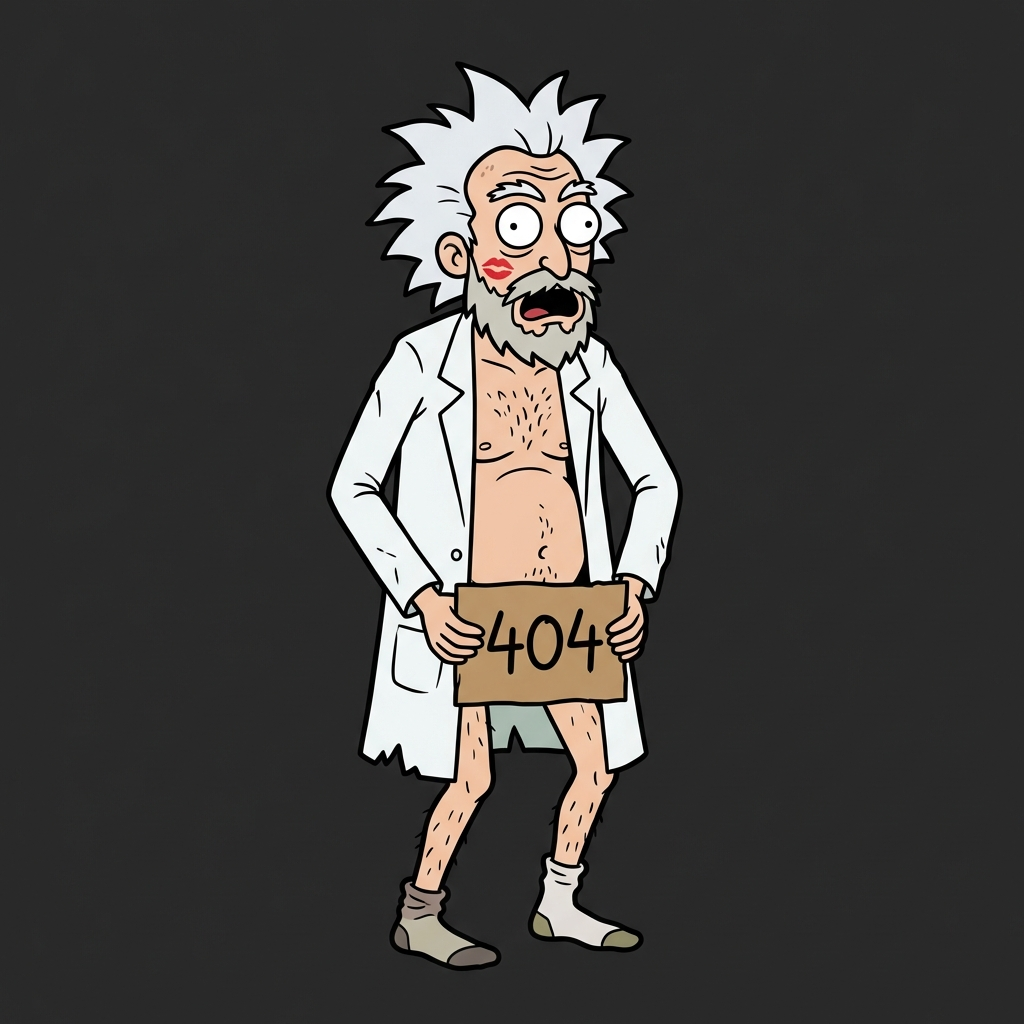
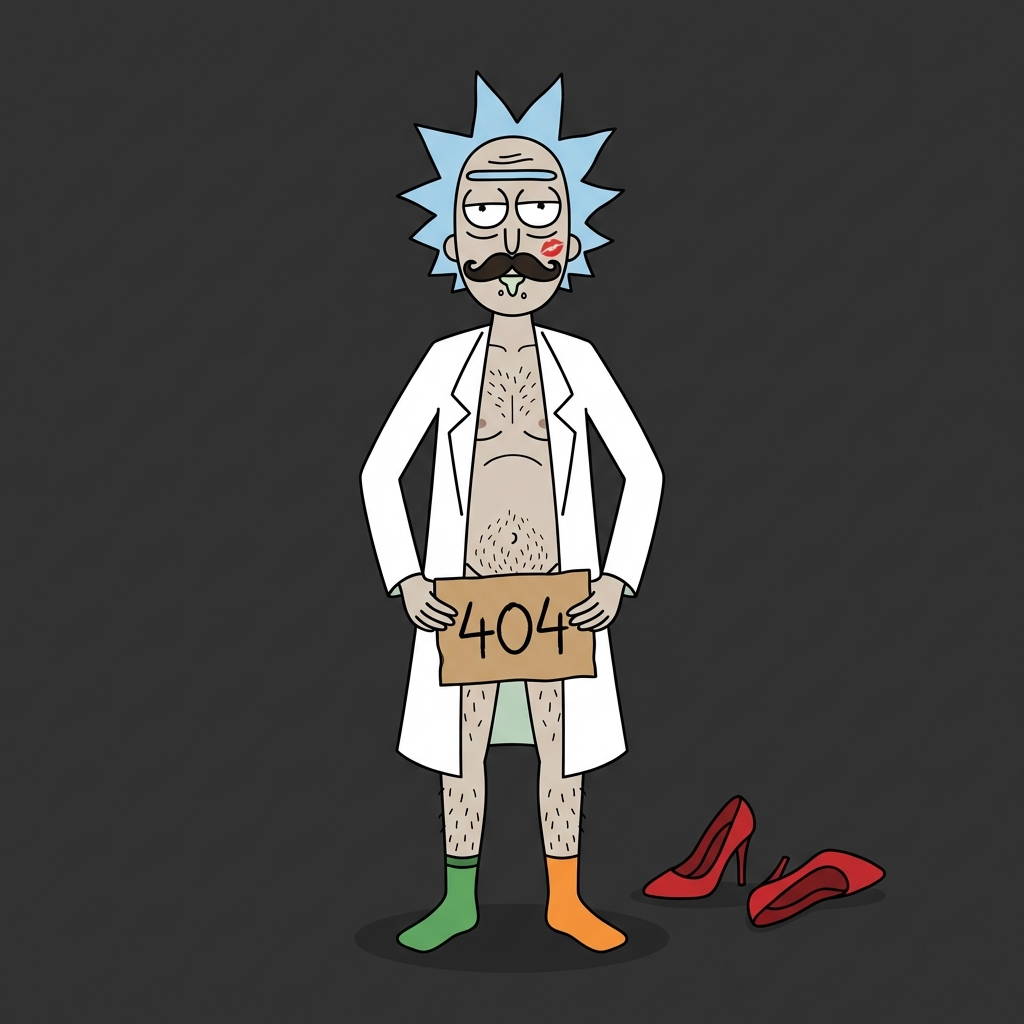
fix(404): definitive update v7 - rick style, mustache, heels, no noise

Changed region(s): [[0.3125, 0.0625, 0.6875, 0.9688], [0.625, 0.7812, 0.875, 0.9062]]

diff --git a/app/not-found.tsx b/app/not-found.tsx
@@ -9,11 +9,12 @@ import { motion } from "framer-motion";
 export default function NotFound() {
     return (
         // BG Color: RGB(41,41,41) => Hex #292929
+        // NO texture/noise ("pütürcükler olmasın")
         <div className="min-h-screen bg-[#292929] text-white font-sans flex flex-col items-center justify-center p-4 selection:bg-[#FF0055] selection:text-white overflow-hidden relative">
 
             <div className="max-w-2xl w-full flex flex-col items-center text-center relative z-10">
 
-                {/* 1. The Naked Scientist Asset (v4) */}
+                {/* 1. The Naked Scientist Asset (v7 - Rick Style) */}
                 <motion.div
                     initial={{ scale: 0.8, opacity: 0, y: 50 }}
                     animate={{ scale: 1, opacity: 1, y: 0 }}
@@ -23,7 +24,7 @@ export default function NotFound() {
                     <div className="relative w-[90vw] sm:w-[500px] aspect-square">
                         <Image
                             src="/404-naked-scientist.png"
-                            alt="Scientist caught changing"
+                            alt="Rick-like Scientist caught changing"
                             fill
                             className="object-contain drop-shadow-2xl"
                             priority
@@ -32,7 +33,7 @@ export default function NotFound() {
                     </div>
                 </motion.div>
 
-                {/* 2. Humorous Copy (More Witty) */}
+                {/* 2. Humorous Copy */}
                 <motion.div
                     initial={{ opacity: 0, y: 20 }}
                     animate={{ opacity: 1, y: 0 }}
@@ -45,10 +46,10 @@ export default function NotFound() {
 
                     <p className="text-lg sm:text-xl text-zinc-300 font-medium leading-normal bg-black/20 p-4 rounded-xl backdrop-blur-sm border border-white/5">
                         <strong className="text-white block mb-1">Olay Yeri İnceleme:</strong>
-                        Sayfa giyinme odasındaydı. Adamcağız daha önlüğünü ilikleyemeden içeri daldın.
+                        Sayfa giyinme odasındaydı. Adamcağız daha önlüğünü ilikleyemeden (ve çoraplarını eşleştiremeden) içeri daldın.
                         <br />
                         <span className="text-sm text-zinc-400 mt-2 block italic">
-                            (Yanağındaki ruj izini görmemiş gibi yap, özel hayatı bizi ilgilendirmez.)
+                            (Yanağındaki ruj izini ve yerdeki topuklu ayakkabıları görmemiş gibi yap, özel hayatı bizi ilgilendirmez.)
                         </span>
                     </p>
                 </motion.div>
@@ -75,9 +76,6 @@ export default function NotFound() {
                 </motion.div>
 
             </div>
-
-            {/* Background Pattern just to be sure it looks premium */}
-            <div className="absolute inset-0 opacity-[0.05] pointer-events-none" style={{ backgroundImage: 'radial-gradient(#444 1px, transparent 1px)', backgroundSize: '24px 24px' }}></div>
         </div>
     );
 }
